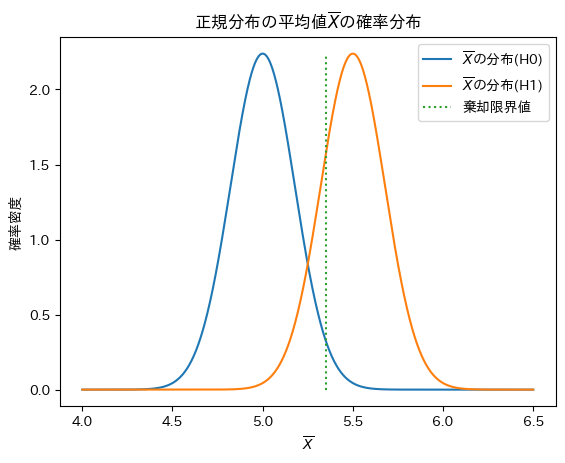
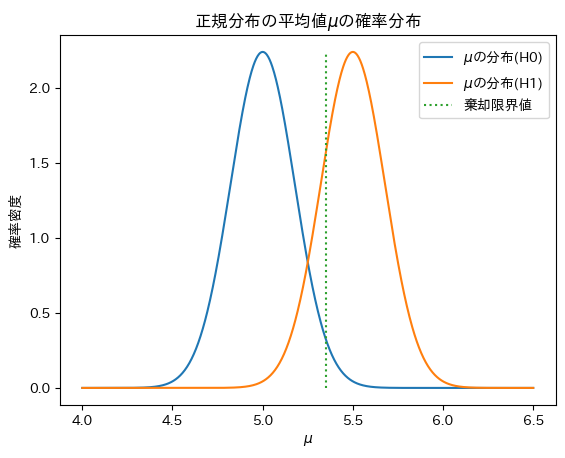
sample size - まとめ

diff --git a/stat/central limit theorem and sample size.md b/stat/central limit theorem and sample size.md
@@ -1,6 +1,8 @@
-# 中心極限定理とサンプルサイズ
+# 中心極限定理とその応用 - サンプルサイズの計算
 
 # 要旨
+
+本稿は、個人として勉強した内容を技術論文としてまとめたものである。
 
 ## サンプルサイズ
 
@@ -16,7 +18,7 @@
 ## ホワイトボックス
 
 機械学習やAIによる判断の詳細は、アルゴリズム内に隠蔽され人には理解が難しい。
-また、確率に基づくあいまいさが含まれ、確実に不良品を識別するための、説明可能な閾値を設定することができない。
+確実に不良品を識別するための、理論的に説明可能な閾値を設定することができない。
 
 ## 中心極限定理
 
@@ -67,33 +69,32 @@
 
 以上、中心極限定理の実例を確認した。
 
-# 仮説検定に必要なサンプルサイズの計算
+# 仮説検定に必要なサンプルサイズの計算(1) 母平均の検定
 
 サンプルデータが不足すれば、統計的に妥当な判定をすることはできない。
 また、サンプルデータが多すぎると、ストレージを無駄に使ってしまう。
-ここでは、母平均の仮説検定を例に、必要十分なサンプルサイズを計算する。
+ここでは、母平均に関する仮説検定を例に、必要十分なサンプルサイズを計算する。
 
-## 仮説検定 (母平均)
+## 仮説検定
 
 母平均 $\mu$ が $\mu_0$ と異なるかどうかを検証する有意水準2.5%の片側検定を考える。
 
 帰無仮説H0: $\mu = \mu_0$  
 対立仮説H1: $\mu = \mu_1 (> \mu_0)$
 
-### 帰無仮説H0の下で
+## 帰無仮説H0の下で
 
 統計量 $Z_0 = \dfrac{\overline{X} - \mu_0}{\sqrt{\sigma^2/n}}$ は標準正規分布 $N(0, 1)$ に従う。
 
 片側有意水準2.5%（誤ってH0棄却。異常見すぎ）の棄却限界値 $z_{\alpha/2} = z_{0.025}$ = 1.96
 
-### 対立仮説H1の下で
+## 対立仮説H1の下で
 
 統計量 $Z_1 = \frac{\overline{X} - \mu_0}{\sqrt{\sigma^2/n}}$ は正規分布 $N(\mu_1 - \mu_0, 1)$ に従う。
 
 第二種の過誤（誤ってH0受容。異常見逃し）の確率 $\beta$ =0.2（検出力0.8）に相当する正規分位点 $z_{\beta} = z_{0.2}$ = 0.84
 
-
-### サンプルサイズnを求める方程式
+## サンプルサイズnを求める方程式
 
 H0の棄却限界値 = H1の正規分位点
 
@@ -103,7 +104,7 @@ $(z_{\alpha/2}+z_{\beta})\sqrt{\sigma^2} = (\mu_1 - \mu_0) \sqrt{n}$
 
 $n = \dfrac{(z_{\alpha/2}+z_{\beta})^2 \sigma^2}{(\mu_1 - \mu_0)^2}$
 
-### 計算例
+## 計算例
 
 母平均 $\mu$ が $\mu_0$ と異なるかどうかを検証する有意水準2.5%の片側検定を考える。
 
@@ -116,60 +117,90 @@ $n = \dfrac{(z_{\alpha/2}+z_{\beta})^2 \sigma^2}{(\mu_1 - \mu_0)^2}$
 
 $n = \dfrac{(z_{\alpha/2}+z_{\beta})^2 \sigma^2}{(\mu_1 - \mu_0)^2} = \dfrac{(1.96 + 0.84)^2 \times 2^2}{(5.5 - 5)^2} = 125.4 = 126$
 
-このときの $\overline{X}$ の確率分布と棄却限界値を以下に示す。
+このときの $\mu$ の確率分布と棄却限界値を以下に示す。
 棄却限界値のラインにおいて、第一種の過誤の確率（片側） $\alpha/2$ と第二種の過誤の確率 $\beta$ が釣り合っていることがわかる。
 
 ![平均値の分布](./central%20limit%20theorem%20and%20sample%20size%20data/mean_prob_dist_01.png)
 
 
+# 仮説検定に必要なサンプルサイズの計算(2) 母平均の差の検定
+
 ## 仮説検定 (母平均の差)
 
 2つの正規分布の母平均( $\mu_1$ , $\mu_2$ )に差があるかどうかを検証する有意水準2.5%の片側検定を考える。
 
-### 正規分布1
+## 正規分布1
 確率変数 $X_1$  
 標本平均 $m_1$, 母平均 $\mu_1$    
 標本分散 $s_1^2$, 母分散 $\sigma_1^2$  
 サンプルサイズ $n_1$
 
-### 正規分布2
+## 正規分布2
 確率変数 $X_2$  
 標本平均 $m_2$, 母平均 $\mu_2$    
 標本分散 $s_2^2$, 母分散 $\sigma_2^2$  
 サンプルサイズ $n_2$
 
-### 検定
+## 検定
 標本平均の差 $d=m_1-m_2$ も正規分布に従うことを利用する。  
-$d$ の母集団値 $\delta = E[d] = \mu_1 - \mu_2$  
+$d$ の母集団値 $\delta = E[d] = \mu_1 - \mu_2 $  
 帰無仮説 H0: 前後の平均値に差がない ( $\delta = d_0 (= 0)$ )  
 対立仮設 H1: 前後の平均値に差がある ( $\delta = d_1 (> 0)$ )
 
-### 帰無仮説H0の下で
+## 帰無仮説H0の下で
 
-$d \sim N(0, \dfrac{\sigma_1^2}{n_1} + \dfrac{\sigma_2^2}{n_2})$
+$\delta_0 \sim N(0, \dfrac{\sigma_1^2}{n_1} + \dfrac{\sigma_2^2}{n_2})$
 
 片側有意水準2.5%（誤ってH0棄却。異常見すぎ）の棄却限界値 = 1.96
 
-### 対立仮説H1の下で
+## 対立仮説H1の下で
 
-$d \sim N(d_1, \dfrac{\sigma_1^2}{n_1} + \dfrac{\sigma_2^2}{n_2})$
+$\delta_1 \sim N(d_1, \dfrac{\sigma_1^2}{n_1} + \dfrac{\sigma_2^2}{n_2})$
 
 第二種の過誤（誤ってH0受容。異常見逃し）の確率 $\beta$ =0.2（検出力0.8）に相当する正規分位点 = 0.84
 
-### サンプルサイズnを求める方程式
+## サンプルサイズnを求める方程式
 
 H0の棄却限界値 = H1の正規分位点
 
-$\mu_0 + z_{\alpha/2} \sqrt{\dfrac{\sigma_1^2}{n_1} + \dfrac{\sigma_2^2}{n_2}} = \mu_1 - z_{\beta} \sqrt{\dfrac{\sigma_1^2}{n_1} + \dfrac{\sigma_2^2}{n_2}}$
+$\delta_0 + z_{\alpha/2} \sqrt{\dfrac{\sigma_1^2}{n_1} + \dfrac{\sigma_2^2}{n_2}} = \delta_1 - z_{\beta} \sqrt{\dfrac{\sigma_1^2}{n_1} + \dfrac{\sigma_2^2}{n_2}}$
 
 簡単のため、 $n = n_1 = n_2$ とすると
 
-$\mu_0 + z_{\alpha/2} \sqrt{\dfrac{\sigma_1^2 + \sigma_2^2}{n}} = \mu_1 - z_{\beta} \sqrt{\dfrac{\sigma_1^2 + \sigma_2^2}{n}}$
+$\delta_0 + z_{\alpha/2} \sqrt{\dfrac{\sigma_1^2 + \sigma_2^2}{n}} = \delta_1 - z_{\beta} \sqrt{\dfrac{\sigma_1^2 + \sigma_2^2}{n}}$
 
-$(z_{\alpha/2}+z_{\beta})\sqrt{\sigma_1^2 + \sigma_2^2} = (\mu_1 - \mu_0) \sqrt{n}$
+$(z_{\alpha/2}+z_{\beta})\sqrt{\sigma_1^2 + \sigma_2^2} = (\delta_1 - \delta_0) \sqrt{n}$
 
-$n = \dfrac{(z_{\alpha/2}+z_{\beta})^2 (\sigma_1^2 + \sigma_2^2)}{(\mu_1 - \mu_0)^2}$
+$n = \dfrac{(z_{\alpha/2}+z_{\beta})^2 (\sigma_1^2 + \sigma_2^2)}{(\delta_1 - \delta_0)^2}$
 
-# 以降、作成中
+## 計算例
+
+確率変数$X_1$  
+標本平均$m_1 = 5.0$  
+標本標準偏差$s_1 = 2$
+
+確率変数$X_2$  
+標本平均$m_2 = 5.5$    
+標本標準偏差$s_2 = 2.1$  
+
+検定の第二種の過誤（誤ってH0受容。異常見逃し）の確率 $\beta$ =0.2（検出力0.8）に必要なサンプルサイズ $n$
+
+$n = \dfrac{(z_{\alpha/2}+z_{\beta})^2 (\sigma_1^2 + \sigma_2^2)}{(\delta_1 - \delta_0)^2} = \dfrac{(1.96 + 0.84)^2 (2^2 + 2.1^2)}{((5.5 - 5.0) - 0)^2} = 263.7 = 264$
+
+このときの $\delta$ の確率分布と棄却限界値を以下に示す。
+棄却限界値のラインにおいて、第一種の過誤の確率（片側） $\alpha/2$ と第二種の過誤の確率 $\beta$ が釣り合っていることがわかる。
+
+![平均値の分布](./central%20limit%20theorem%20and%20sample%20size%20data/mean_prob_dist_02.png)
+
+# まとめ
+
+* 本稿では、最初に中心極限定理の実例を確認した。次に、想定する異常値をもとに、その検出に必要なサンプルサイズを計算した
+* この方法によれば、第一種、第二種の過誤の確率を設定することで、不良品を識別するための閾値とサンプルサイズを理論的に決定できる
+* このように設定した閾値によって異常の兆候を検出し、優先的に対策をとることは理にかなっていると考える
+* さらに、複数条件を組み合わせた判断をするために、機械学習を併用することを考える（別稿で検討する）
 
 # 参考文献
+
+1. 改訂版 日本統計学会公式認定 統計検定2級対応 統計学基礎, 日本統計学会, 東京図書, 2018年 改訂版 第6刷
+2. 日本統計学会公式認定 統計検定準1級対応 統計学実践ワークブック, 日本統計学会, 学術図書, 2021年
+3. 統計ライブラリー サンプルサイズの決め方, 永田 靖, 朝倉書店, 2016年
